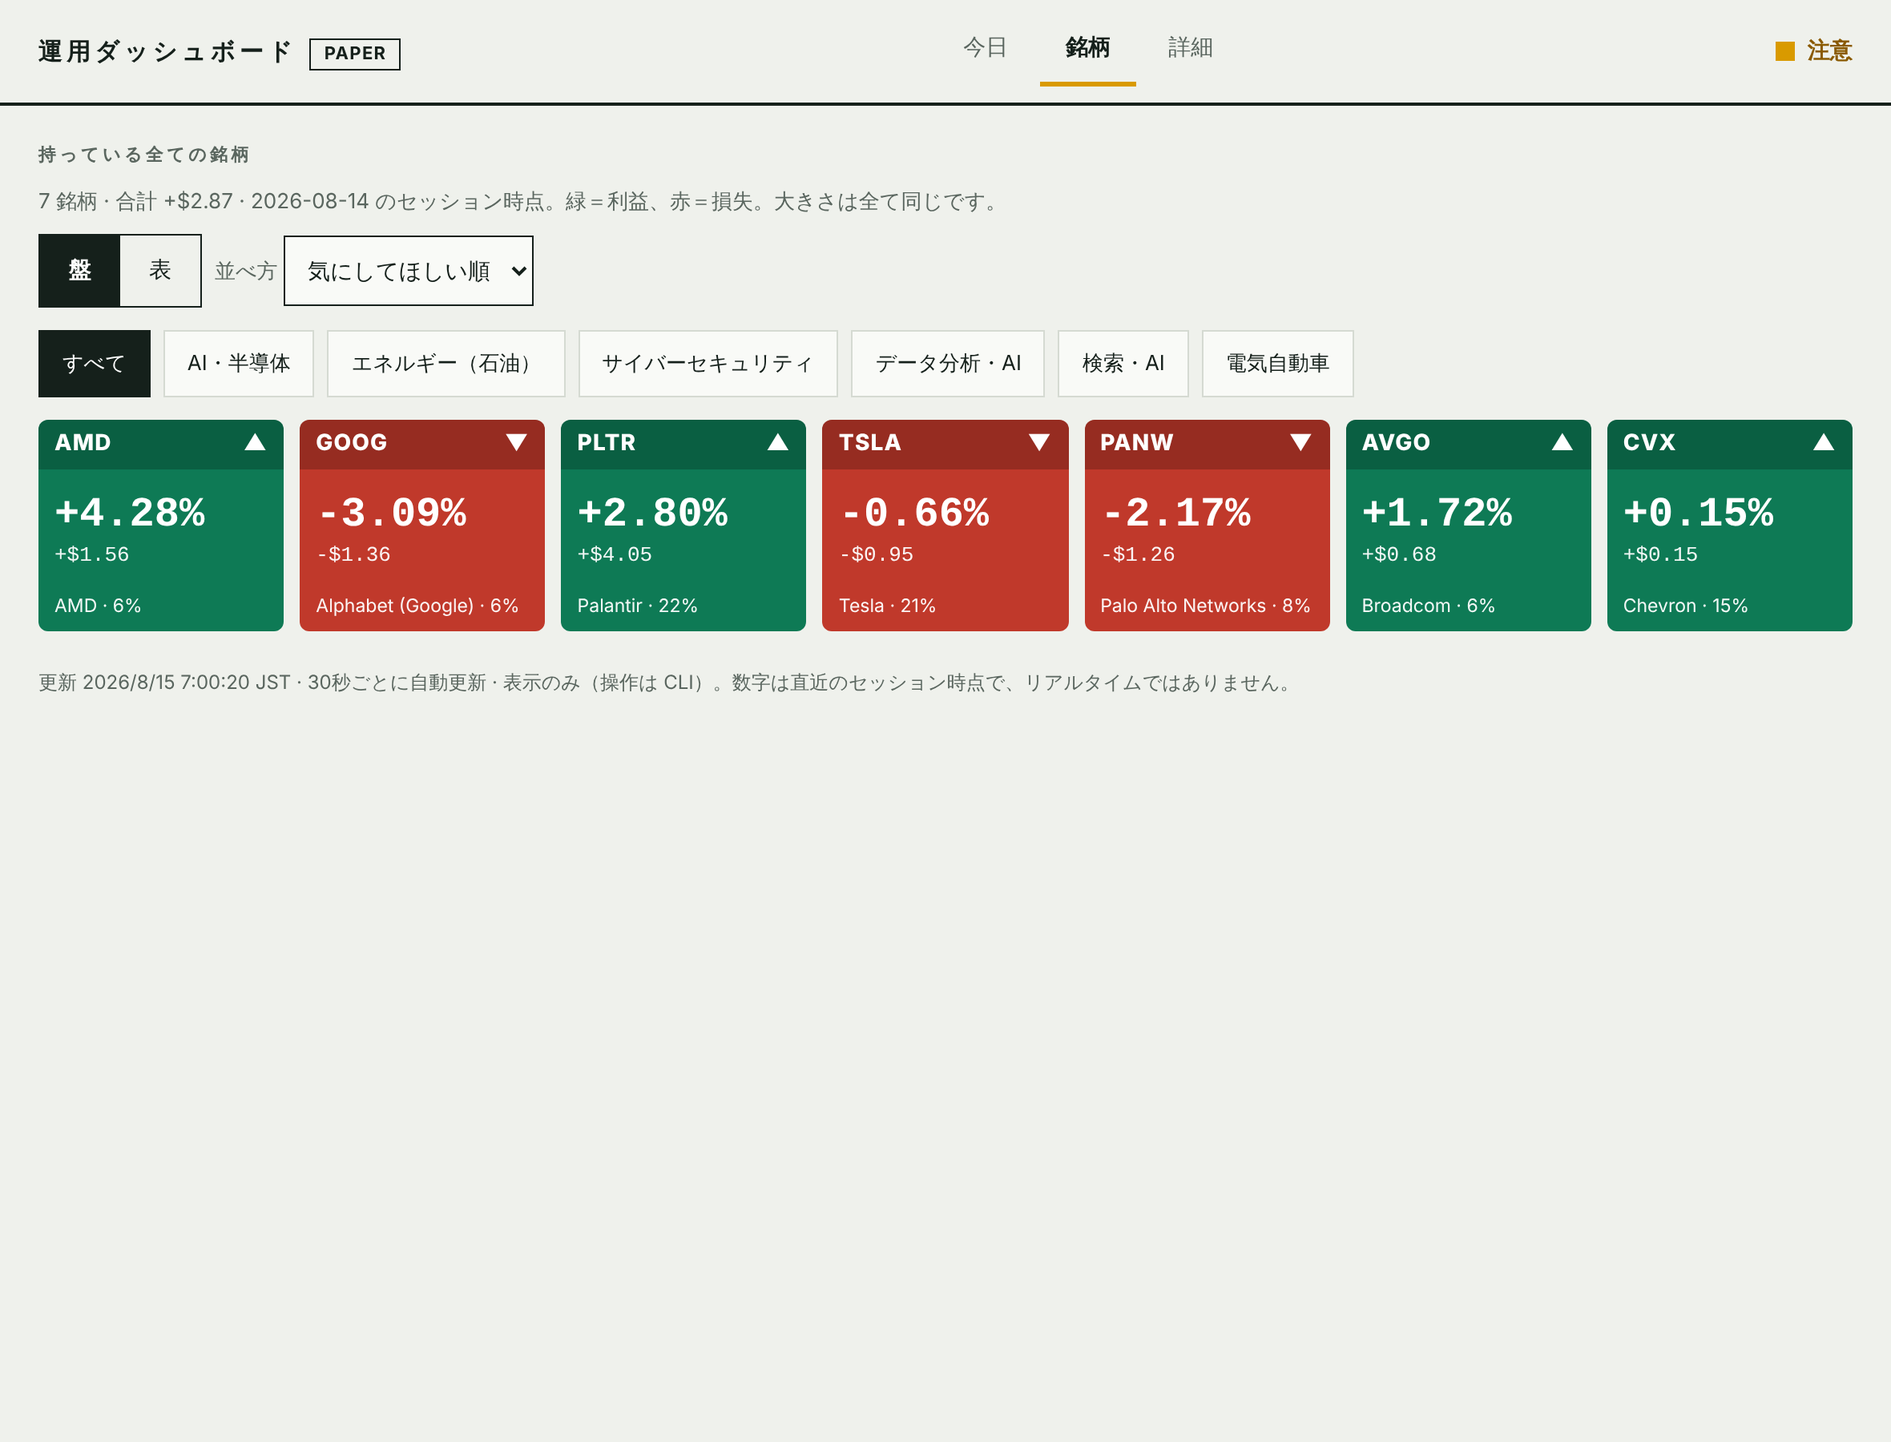
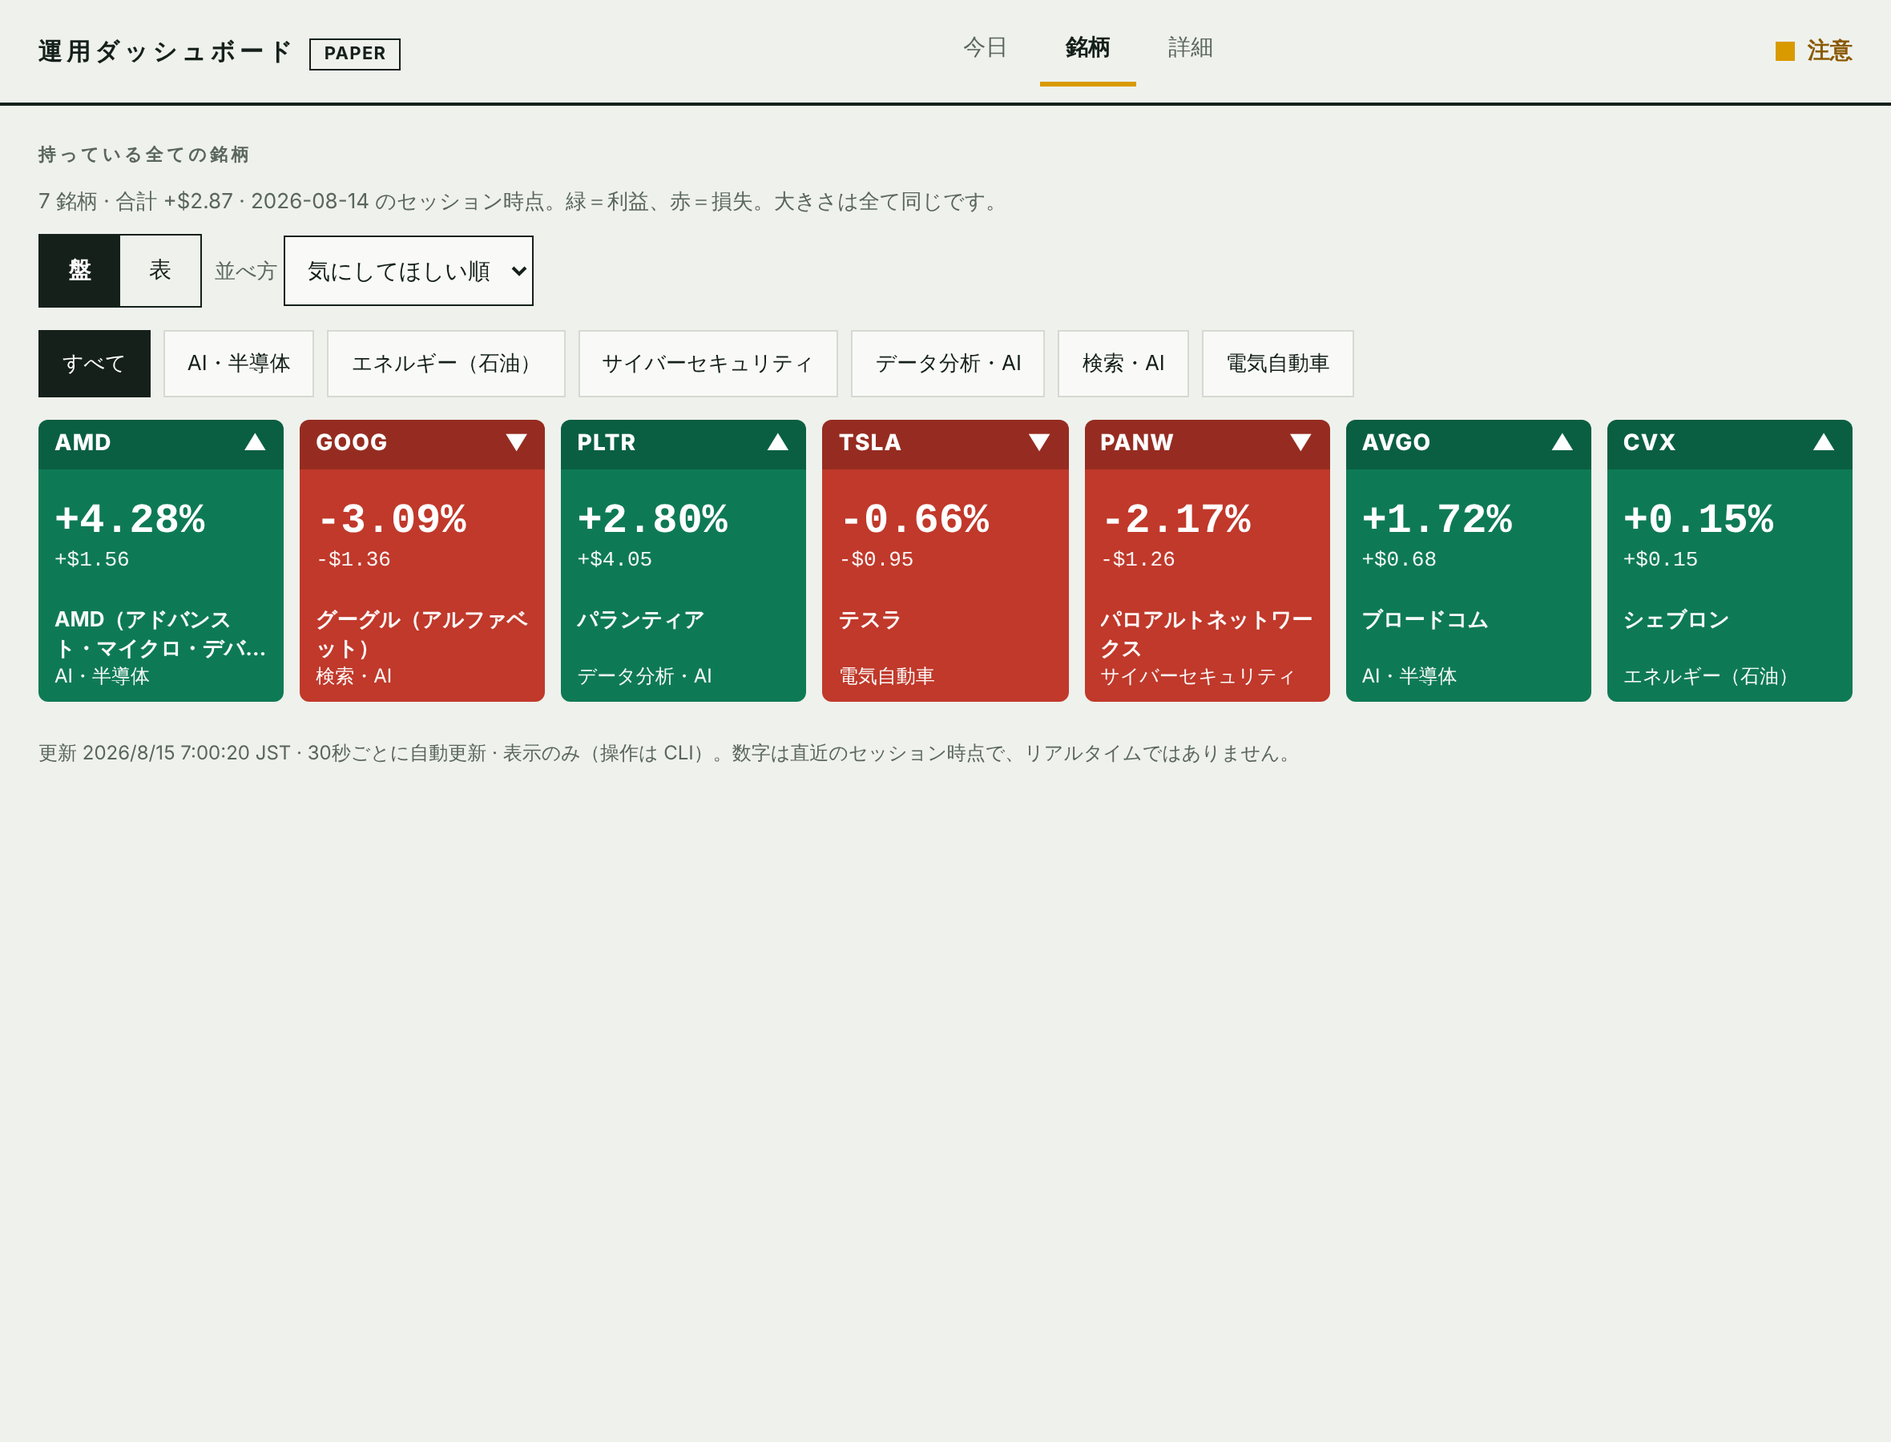
Dashboard: show each holding's Japanese company name, category and what the company does
Profiles now carry company_ja, company, category and a one-line business description (display only; unknown
tickers show the symbol alone). Windows wrap long names; rows and the detail sheet show the business line.

Claude-Session: https://claude.ai/code/session_01ExE5XNGbXehyDCPgKYN5Cg

Changed region(s): [[0.0, 0.3422, 0.9898, 0.5289]]

diff --git a/apps/web/ops.html b/apps/web/ops.html
@@ -48,11 +48,11 @@
   .alerts { border: 1px solid var(--acc); background: #fff7df; padding: 10px 16px; margin-bottom: 18px; } .alerts.bad { border-color: var(--dn); background: #fdecea; }
   .alerts b { display: block; } .alerts li { margin-left: 1.2em; font-size: 14px; overflow-wrap: anywhere; }
   /* gauge rows (方向3) */
-  .rows .hd, .r { display: grid; grid-template-columns: minmax(130px,190px) minmax(0,1fr) 100px; gap: 18px; align-items: center; }
+  .rows .hd, .r { display: grid; grid-template-columns: minmax(170px,290px) minmax(0,1fr) 100px; gap: 18px; align-items: center; }
   .rows .hd { font-size: 11px; color: var(--mute); letter-spacing: .1em; padding: 0 0 6px; border-bottom: 2px solid var(--ink); }
-  .r { all: unset; box-sizing: border-box; display: grid; grid-template-columns: minmax(130px,190px) minmax(0,1fr) 100px; gap: 18px; align-items: center; width: 100%; min-height: 64px; padding: 10px 0; border-bottom: 1px solid var(--line); cursor: pointer; }
+  .r { all: unset; box-sizing: border-box; display: grid; grid-template-columns: minmax(170px,290px) minmax(0,1fr) 100px; gap: 18px; align-items: center; width: 100%; min-height: 64px; padding: 10px 0; border-bottom: 1px solid var(--line); cursor: pointer; }
   .r:hover { background: var(--panel); } .r:focus-visible { outline: 3px solid var(--ink); outline-offset: -3px; }
-  .r .s { font-weight: 800; font-size: 17px; } .r .c { font-size: 12px; color: var(--mute); line-height: 1.3; overflow-wrap: anywhere; }
+  .r .c.b { color: var(--ink); opacity: .75; } .r .s { font-weight: 800; font-size: 17px; } .r .c { font-size: 12px; color: var(--mute); line-height: 1.3; overflow-wrap: anywhere; }
   .tag { white-space: nowrap; font-size: 11px; color: #6b4600; background: #ffe9ad; padding: 0 6px; margin-left: 6px; font-weight: 700; }
   .g { position: relative; height: 32px; } .g .tr { position: absolute; left: 0; right: 0; top: 11px; height: 4px; background: var(--line); }
   .g .sf { position: absolute; left: 0; top: 11px; height: 4px; background: #d9a9a1; } .g .e { position: absolute; top: 5px; width: 2px; height: 16px; background: var(--mute); }
@@ -63,14 +63,14 @@
   .more-link { all: unset; cursor: pointer; display: inline-flex; align-items: center; min-height: 44px; margin-top: 6px; color: var(--ink); font-weight: 700; border-bottom: 2px solid var(--ink); }
   .more-link:focus-visible { outline: 3px solid var(--ink); outline-offset: 2px; }
   /* 盤: equal windows, green = profit, red = loss */
-  .board { display: grid; grid-template-columns: repeat(auto-fill, minmax(150px, 1fr)); grid-auto-rows: 132px; gap: 10px; }
+  .board { display: grid; grid-template-columns: repeat(auto-fill, minmax(150px, 1fr)); grid-auto-rows: 176px; gap: 10px; }
   .win { all: unset; box-sizing: border-box; cursor: pointer; display: flex; flex-direction: column; border-radius: 6px; overflow: hidden; color: #fff; background: var(--flat); min-width: 0; }
   .win.up { background: var(--up); } .win.dn { background: var(--dn); }
   .win:hover { filter: brightness(1.08); } .win:focus-visible { outline: 3px solid var(--ink); outline-offset: 2px; }
   .wt { display: flex; justify-content: space-between; align-items: center; padding: 4px 10px; background: rgba(0,0,0,.22); font-weight: 800; font-size: 14px; letter-spacing: .04em; }
   .wb { flex: 1; display: flex; flex-direction: column; justify-content: center; padding: 0 10px; }
   .box-pct { font-size: 26px; font-weight: 700; line-height: 1.15; } .wb .a { font-size: 13px; opacity: .95; }
-  .wf { padding: 0 10px 8px; font-size: 11.5px; line-height: 1.3; opacity: .95; white-space: nowrap; overflow: hidden; text-overflow: ellipsis; }
+  .wf { padding: 0 10px 8px; font-size: 12px; line-height: 1.35; opacity: .97; } .wf div { overflow: hidden; text-overflow: ellipsis; white-space: nowrap; } .wf .n { font-weight: 700; font-size: 13px; white-space: normal; display: -webkit-box; -webkit-line-clamp: 2; -webkit-box-orient: vertical; min-height: 2.7em; }
   .controls { display: flex; gap: 8px; flex-wrap: wrap; align-items: center; margin: 10px 0 14px; }
   .controls select { font: inherit; font-size: 14px; min-height: 44px; padding: 0 10px; border: 1px solid var(--ink); background: var(--panel); color: var(--ink); }
   .seg { display: inline-flex; border: 1px solid var(--ink); } .seg button { all: unset; cursor: pointer; min-height: 44px; padding: 0 18px; font-size: 14px; color: var(--ink); }
@@ -114,7 +114,7 @@
     .tl { display: flex; gap: 18px; overflow-x: auto; border-left: 0; border-top: 2px solid var(--ink); padding: 12px 0 6px; margin-bottom: 8px; } .tl li { flex: 0 0 auto; padding: 0; } .tl li::before { display: none; }
     main { padding: 16px; } .tiles .tile:first-child .v { font-size: 32px; } #error { margin: 10px 16px 0; } footer { padding: 0 16px; }
     .rows .hd { display: none; } .r { grid-template-columns: minmax(0,1fr) auto; gap: 4px 10px; } .r .g { grid-column: 1 / -1; order: 3; }
-    .board { grid-template-columns: repeat(2, minmax(0,1fr)); }
+    .board { grid-template-columns: repeat(2, minmax(0,1fr)); } .box-pct { font-size: 24px; }
   }
   @media (prefers-reduced-motion: reduce) { * { animation: none !important; transition: none !important; } }
 </style>
@@ -286,6 +286,7 @@ function renderPerf(p) {
 
 // ---- holdings: 方向3 gauge rows (home, "表") and 方向2 equal windows ("盤"); tap = why + plan ----
 const NEAR_STOP = 0.06;                    // a position this close above its stop is shown as "損切り近い" (display only)
+const nameOf = (x) => x.company_ja || x.company || "会社名は未登録";
 const qtyText = (q) => Number(q).toLocaleString("en-US", { maximumFractionDigits: 4 });
 const dist = (from, to) => from > 0 ? to / from - 1 : null;
 const arrow = (x) => x > 0 ? "▲" : x < 0 ? "▼" : "－";
@@ -303,9 +304,10 @@ function holdingRow(x) {
       el("div", { class: "e", style: "left:" + pctPos(x.avg_cost, lo, hi) + "%" }), el("div", { class: "p", style: "left:" + pctPos(x.price, lo, hi) + "%" }),
       el("span", { class: "l", style: "left:0", text: money(lo) }), el("span", { class: "l", style: "right:0", text: money(hi) }));
   } else gauge.append(el("span", { class: "warn note", text: "計画の記録がありません" }));
-  const b = el("button", { type: "button", class: "r" + (near ? " near" : ""), "aria-label": x.symbol + " " + (x.company || "") + " " + signed(x.pnl_pct, pct) + (near ? " 損切りに近い" : "") + " 理由と計画を開く" },
+  const b = el("button", { type: "button", class: "r" + (near ? " near" : ""), "aria-label": x.symbol + " " + nameOf(x) + " " + signed(x.pnl_pct, pct) + (near ? " 損切りに近い" : "") + " 理由と計画を開く" },
     el("div", {}, el("span", { class: "s", text: x.symbol }), near ? el("span", { class: "tag", text: "損切り近い" }) : null,
-      el("div", { class: "c", text: (x.company || "会社名は未登録") + (x.category ? "・" + x.category : "") })),
+      el("div", { class: "c", text: nameOf(x) + (x.category ? "・" + x.category : "") }),
+      x.business ? el("div", { class: "c b", text: x.business }) : null),
     gauge,
     el("div", { class: "v pl " + cls(x.pnl) }, arrow(x.pnl) + " " + signed(x.pnl_pct, pct), el("small", { text: signed(x.pnl, money) })));
   b.addEventListener("click", () => openSheet(x));
@@ -317,10 +319,10 @@ const rowsKey = () => el("p", { class: "key", text: "黒い縦線＝いまの価
 // one equal-size window: green = profit, red = loss
 function holdingWindow(x) {
   const t = x.pnl > 0 ? "up" : x.pnl < 0 ? "dn" : "fl";
-  const b = el("button", { type: "button", class: "win " + t, "aria-label": x.symbol + " " + (x.company || "") + "、" + (x.pnl > 0 ? "利益" : x.pnl < 0 ? "損失" : "損益なし") + " " + signed(x.pnl_pct, pct) + "、資産の" + pct(x.weight, 0) + "。理由と計画を開く" },
+  const b = el("button", { type: "button", class: "win " + t, "aria-label": x.symbol + " " + nameOf(x) + (x.category ? "、" + x.category : "") + "、" + (x.pnl > 0 ? "利益" : x.pnl < 0 ? "損失" : "損益なし") + " " + signed(x.pnl_pct, pct) + "、資産の" + pct(x.weight, 0) + "。理由と計画を開く" },
     el("div", { class: "wt" }, el("span", { text: x.symbol }), el("span", { "aria-hidden": "true", text: arrow(x.pnl) })),
     el("div", { class: "wb" }, el("div", { class: "box-pct", text: signed(x.pnl_pct, pct) }), el("div", { class: "a num", text: signed(x.pnl, money) })),
-    el("div", { class: "wf", text: (x.company || "会社名は未登録") + " · " + pct(x.weight, 0) }));
+    el("div", { class: "wf" }, el("div", { class: "n", text: nameOf(x) }), el("div", { text: x.category || "系統は未登録" })));
   b.addEventListener("click", () => openSheet(x));
   return b;
 }
@@ -347,7 +349,8 @@ function openSheet(x) {
   closeBtn.addEventListener("click", close);
   const bg = el("div", { class: "sheet-bg" }, el("div", { class: "sheet", role: "dialog", "aria-modal": "true", "aria-label": x.symbol + " の理由と計画" },
     el("div", { class: "sheet-top" },
-      el("div", {}, el("div", { class: "sym big", text: x.symbol }), el("div", { class: "co", text: (x.company || "") + (x.category ? " · " + x.category : "") })),
+      el("div", {}, el("div", { class: "sym big", text: x.symbol }), el("div", { class: "co", text: nameOf(x) + (x.company && x.company_ja && x.company_ja.indexOf(x.company) < 0 ? "（" + x.company + "）" : "") }),
+      el("div", { class: "co", text: (x.category || "系統は未登録") + (x.business ? " ／ " + x.business : "") })),
       closeBtn),
     el("div", { style: "margin:8px 0 2px" }, el("span", { class: "big num " + cls(x.pnl), text: arrow(x.pnl) + " " + signed(x.pnl_pct, pct) }), "  ", el("b", { class: "num " + cls(x.pnl), text: signed(x.pnl, money) })),
     el("div", { class: "note", text: qtyText(x.qty) + " 株 · 買値 " + money(x.avg_cost) + " → いま " + money(x.price) + " · 評価額 " + money(x.value) + " · 資産の " + pct(x.weight, 0) }),

diff --git a/packages/common/symbol_profiles.py b/packages/common/symbol_profiles.py
@@ -1,39 +1,42 @@
-"""Display reference for the dashboard: a company name and a plain-language category per ticker.
+"""Display reference for the dashboard: who a ticker is, in plain Japanese.
 
-Pure data, for people reading the screen. Nothing in trading reads it (themes used for exposure limits are
-`services/composition.DEFAULT_THEMES`). A ticker that is not listed here is shown by its symbol alone — a name
-is never guessed."""
+Per ticker: the Japanese company name, the English name, the category ("何系"), and one line on what the company
+does. Pure data, for people reading the screen. Nothing in trading reads it (themes used for exposure limits are
+`services/composition.DEFAULT_THEMES`). A ticker that is not listed here is shown by its symbol alone — a name is
+never guessed."""
 from __future__ import annotations
 
 from typing import NamedTuple, Optional
 
 
 class SymbolProfile(NamedTuple):
+    company_ja: str
     company: str
     category: str
+    business: str
 
 
 SYMBOL_PROFILES: dict[str, SymbolProfile] = {
-    "AAPL": SymbolProfile("Apple", "消費者向けテック"),
-    "MSFT": SymbolProfile("Microsoft", "AI・ソフトウェア"),
-    "NVDA": SymbolProfile("NVIDIA", "AI・半導体"),
-    "AMD": SymbolProfile("AMD", "AI・半導体"),
-    "AVGO": SymbolProfile("Broadcom", "AI・半導体"),
-    "TSLA": SymbolProfile("Tesla", "電気自動車"),
-    "AMZN": SymbolProfile("Amazon", "ネット通販・クラウド"),
-    "GOOG": SymbolProfile("Alphabet (Google)", "検索・AI"),
-    "META": SymbolProfile("Meta Platforms", "SNS・AI"),
-    "NFLX": SymbolProfile("Netflix", "動画配信"),
-    "PLTR": SymbolProfile("Palantir", "データ分析・AI"),
-    "CRWD": SymbolProfile("CrowdStrike", "サイバーセキュリティ"),
-    "PANW": SymbolProfile("Palo Alto Networks", "サイバーセキュリティ"),
-    "SNOW": SymbolProfile("Snowflake", "クラウドデータ"),
-    "DDOG": SymbolProfile("Datadog", "クラウド監視"),
-    "MRNA": SymbolProfile("Moderna", "バイオ・医薬"),
-    "PFE": SymbolProfile("Pfizer", "医薬品"),
-    "XOM": SymbolProfile("Exxon Mobil", "エネルギー（石油）"),
-    "CVX": SymbolProfile("Chevron", "エネルギー（石油）"),
-    "JPM": SymbolProfile("JPMorgan Chase", "金融（銀行）"),
+    "AAPL": SymbolProfile("アップル", "Apple", "消費者向けテック", "iPhone・Mac・Apple Watch などを作る"),
+    "MSFT": SymbolProfile("マイクロソフト", "Microsoft", "AI・ソフトウェア", "Windows・Office・クラウド（Azure）・AI"),
+    "NVDA": SymbolProfile("エヌビディア", "NVIDIA", "AI・半導体", "AI の計算に使う半導体（GPU）の最大手"),
+    "AMD": SymbolProfile("AMD（アドバンスト・マイクロ・デバイセズ）", "AMD", "AI・半導体", "パソコン・サーバー・AI 向けの半導体"),
+    "AVGO": SymbolProfile("ブロードコム", "Broadcom", "AI・半導体", "通信・データセンター向けの半導体とソフトウェア"),
+    "TSLA": SymbolProfile("テスラ", "Tesla", "電気自動車", "電気自動車と蓄電池を作る"),
+    "AMZN": SymbolProfile("アマゾン", "Amazon", "ネット通販・クラウド", "ネット通販と、クラウド（AWS）"),
+    "GOOG": SymbolProfile("グーグル（アルファベット）", "Alphabet (Google)", "検索・AI", "検索・広告・YouTube・AI"),
+    "META": SymbolProfile("メタ・プラットフォームズ", "Meta Platforms", "SNS・AI", "Facebook・Instagram などの SNS と AI"),
+    "NFLX": SymbolProfile("ネットフリックス", "Netflix", "動画配信", "映画やドラマの動画配信"),
+    "PLTR": SymbolProfile("パランティア", "Palantir", "データ分析・AI", "政府・企業向けのデータ分析ソフト"),
+    "CRWD": SymbolProfile("クラウドストライク", "CrowdStrike", "サイバーセキュリティ", "クラウド型のサイバー攻撃対策"),
+    "PANW": SymbolProfile("パロアルトネットワークス", "Palo Alto Networks", "サイバーセキュリティ", "企業向けのネットワーク・セキュリティ製品"),
+    "SNOW": SymbolProfile("スノーフレイク", "Snowflake", "クラウドデータ", "企業のデータをためて分析するクラウド基盤"),
+    "DDOG": SymbolProfile("データドッグ", "Datadog", "クラウド監視", "クラウドのシステムの状態を監視するサービス"),
+    "MRNA": SymbolProfile("モデルナ", "Moderna", "バイオ・医薬", "mRNA を使ったワクチン・医薬品"),
+    "PFE": SymbolProfile("ファイザー", "Pfizer", "医薬品", "世界的な大手製薬会社（ワクチン・医薬品）"),
+    "XOM": SymbolProfile("エクソンモービル", "Exxon Mobil", "エネルギー（石油）", "世界最大級の石油・ガス会社"),
+    "CVX": SymbolProfile("シェブロン", "Chevron", "エネルギー（石油）", "米国の大手石油・ガス会社"),
+    "JPM": SymbolProfile("JP モルガン・チェース", "JPMorgan Chase", "金融（銀行）", "米国最大の銀行"),
 }
 
 

diff --git a/tests/unit/test_ops_dashboard.py b/tests/unit/test_ops_dashboard.py
@@ -122,7 +122,8 @@ def test_holdings_carry_names_categories_and_at_most_ten_attention_picks(state, 
     scores = {x["symbol"]: x["attention_score"] for x in h["holdings"]}
     assert [scores[s] for s in h["attention"]] == sorted((scores[s] for s in h["attention"]), reverse=True)
     for x in h["holdings"]:
-        assert x["company"] and x["category"]                              # every default symbol has a profile
+        # every default symbol says who it is, in Japanese, what kind of stock it is, and what the company does
+        assert x["company"] and x["company_ja"] and x["category"] and x["business"]
 
 
 def test_every_default_symbol_has_a_profile():
@@ -281,3 +282,8 @@ def test_status_reports_when_the_account_was_last_saved(tmp_path):
     assert o.status(START)["checkpoint"] is None
     DurableCheckpointStore(str(tmp_path / "checkpoints.db"), Environment.PAPER).save({"x": 1}, "session_end:2026-08-11", START)
     assert o.status(START)["checkpoint"]["reason"] == "session_end:2026-08-11"
+
+
+def test_a_ticker_without_a_profile_is_shown_by_its_symbol_alone():
+    from packages.common.symbol_profiles import profile_of
+    assert profile_of("ZZZZ") is None and profile_of("NVDA").company_ja == "エヌビディア"

diff --git a/services/supervisor/ops_state.py b/services/supervisor/ops_state.py
@@ -146,7 +146,8 @@ class OpsState:
         for h in items or []:
             prof = profile_of(h["symbol"])
             score, reasons = attention_of(h)
-            out.append({**h, "company": prof.company if prof else None, "category": prof.category if prof else None,
+            out.append({**h, "company": prof.company if prof else None, "company_ja": prof.company_ja if prof else None,
+                        "category": prof.category if prof else None, "business": prof.business if prof else None,
                         "attention_score": round(score, 4), "attention_reasons": reasons})
         order = sorted(out, key=lambda x: (-x["attention_score"], -abs(x["pnl_pct"]), x["symbol"]))
         top = [x["symbol"] for x in order[:ATTENTION_COUNT]]
